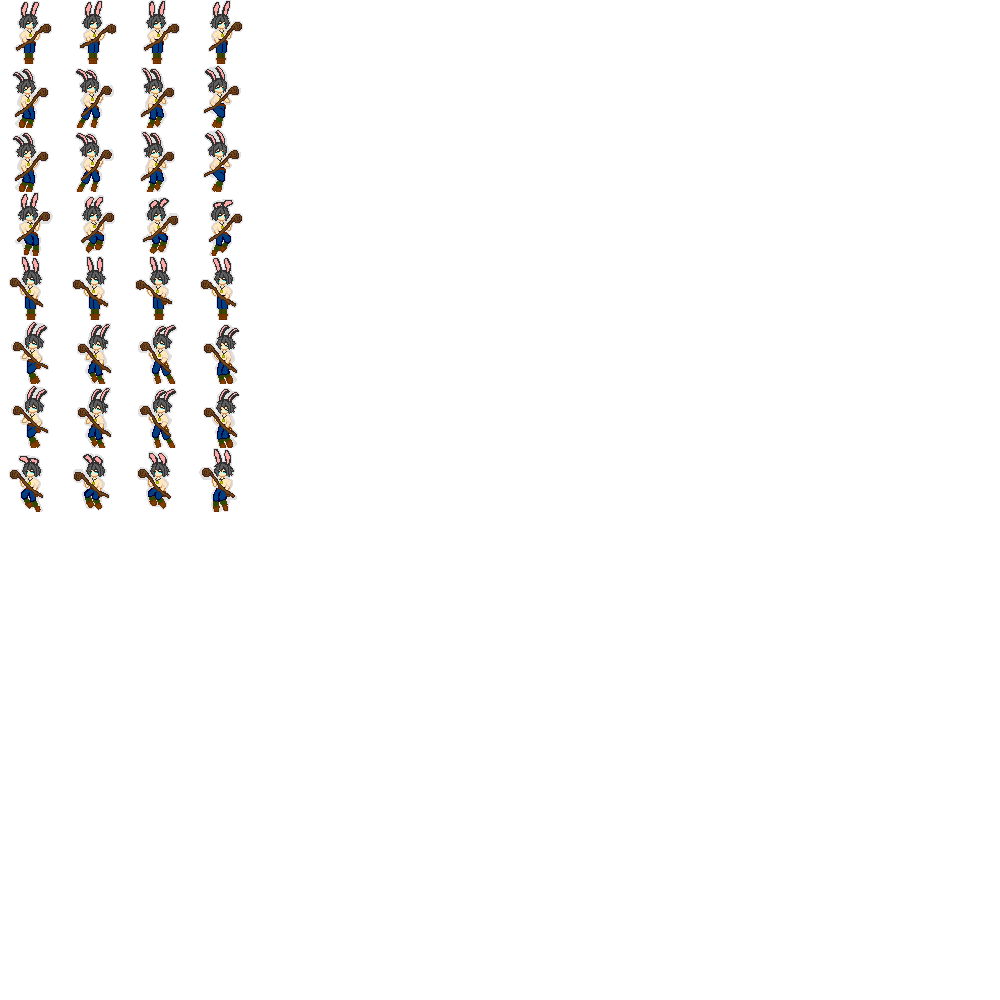
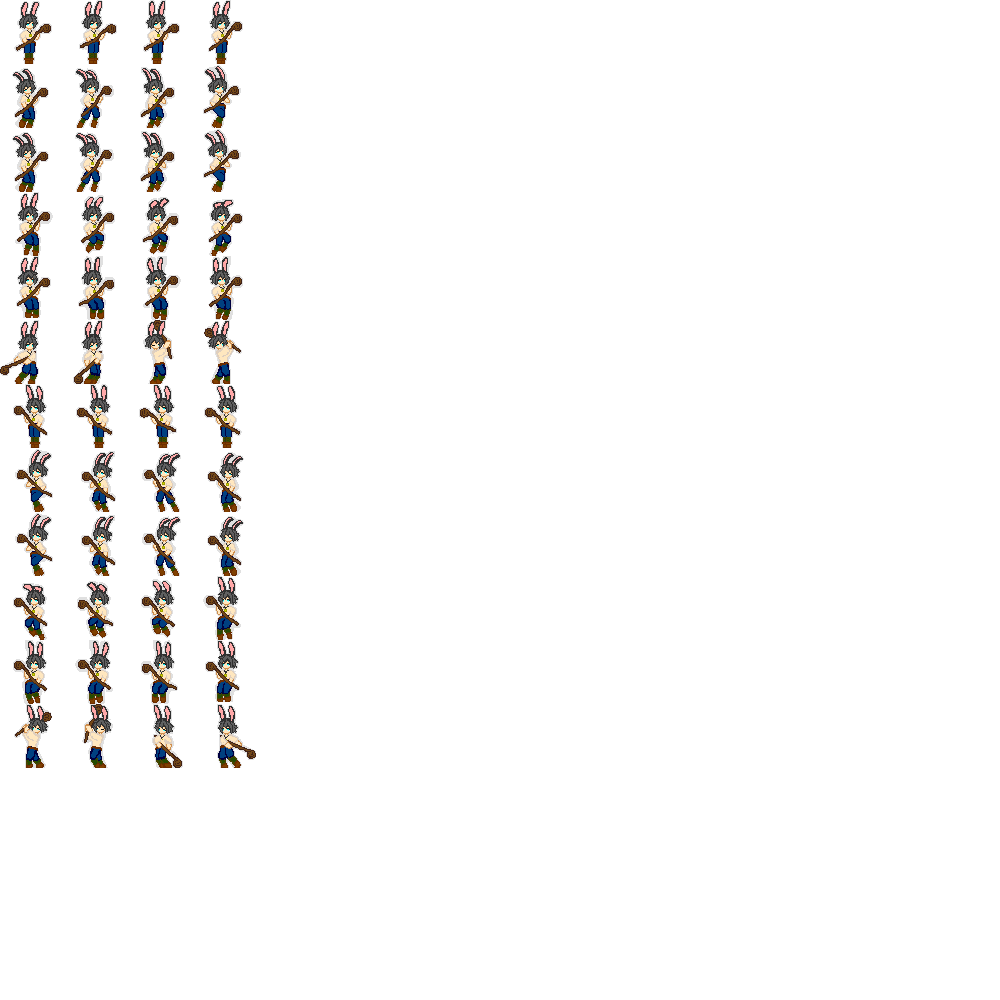
アニメーションの編集

Changed region(s): [[0.0, 0.248, 0.248, 0.775]]

diff --git a/Player.cpp b/Player.cpp
@@ -350,8 +350,14 @@ void Player::PlayDraw()
 	case(RUN):
 		patY += 2;
 		break;
-	case(JUMP):
+	case(JUMP_UP):
 		patY += 3;
+		break;
+	case(JUMP_DOWN):
+		patY += 4;
+		break;
+	case(ATTACK):
+		patY += 5;
 		break;
 	default:
 		break;
@@ -503,7 +509,7 @@ void Player::Move()
 
 			islookleft = false;
 
-			if (animeState != JUMP)
+			if (animeState != JUMP_DOWN)
 			{
 				animeState = WALK;
 			}
@@ -513,7 +519,7 @@ void Player::Move()
 			if (Velocity.x > maxSpeed)
 			{
 				Velocity.x = maxSpeed;
-				if (animeState != JUMP)
+				if (animeState != JUMP_DOWN)
 				{
 					animeState = RUN;
 				}
@@ -526,7 +532,7 @@ void Player::Move()
 
 			islookleft = true;
 
-			if (animeState != JUMP)
+			if (animeState != JUMP_DOWN)
 			{
 				animeState = WALK;
 			}
@@ -536,7 +542,7 @@ void Player::Move()
 			if (Velocity.x < -maxSpeed)
 			{
 				Velocity.x = -maxSpeed;
-				if (animeState != JUMP)
+				if (animeState != JUMP_DOWN)
 				{
 					animeState = RUN;
 				}
@@ -563,7 +569,7 @@ void Player::Move()
 				}
 			}
 
-			if (animeState != JUMP)
+			if (animeState != JUMP_DOWN)
 			{
 				if (Velocity.x == 0)
 				{
@@ -622,7 +628,7 @@ void Player::Move()
 				Velocity.y = 0;
 				CanJump = true;
 				timer = 0;
-				if (animeState == JUMP)
+				if (animeState == JUMP_DOWN)
 				{
 					if (Velocity.x == 0)
 					{
@@ -638,10 +644,11 @@ void Player::Move()
 				timer++;
 				if (timer < BOX_TIME && Velocity.y > 0) {
 					CanJump = true;
+					animeState = JUMP_DOWN;
 				}
 				else {
 					CanJump = false;
-					animeState = JUMP;
+					animeState = JUMP_UP;
 				}
 			}
 		}
@@ -686,7 +693,7 @@ void Player::MainAttack()
 		{
 			new Slash(Apos, SlashNumber::BASE, islookleft, ObjectTag::PLAYER);
 			mainAttackRecast = PLAYER_01_MAIN_ATTACK_RECAST_TIME;
-			
+			animeState = JUMP_UP;
 			FindGameObject<Sound>()->EffectSoundPlay("slash");
 		}
 

diff --git a/Player.h b/Player.h
@@ -135,7 +135,9 @@ private:
 		STAND,
 		WALK,
 		RUN,
-		JUMP
+		JUMP_UP,
+		JUMP_DOWN,
+		ATTACK
 	};
 	AnimeState animeState;
 
